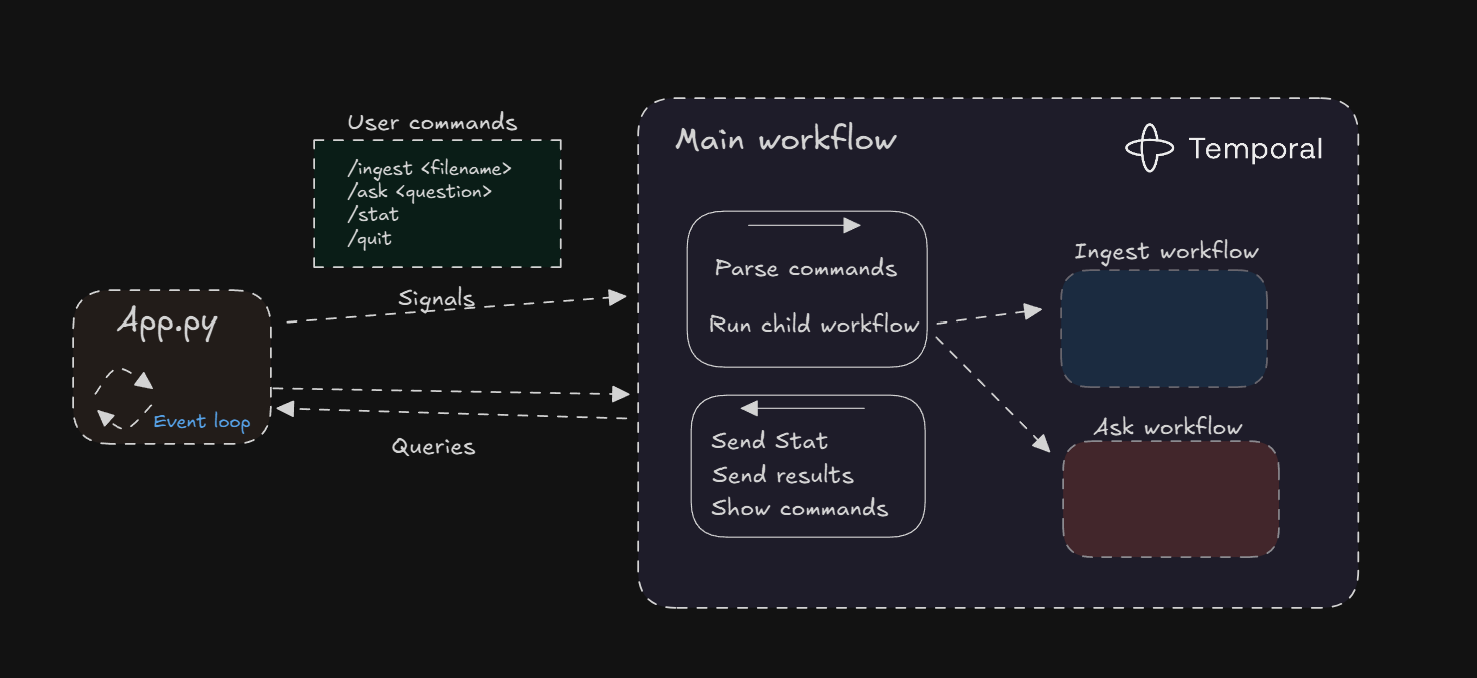
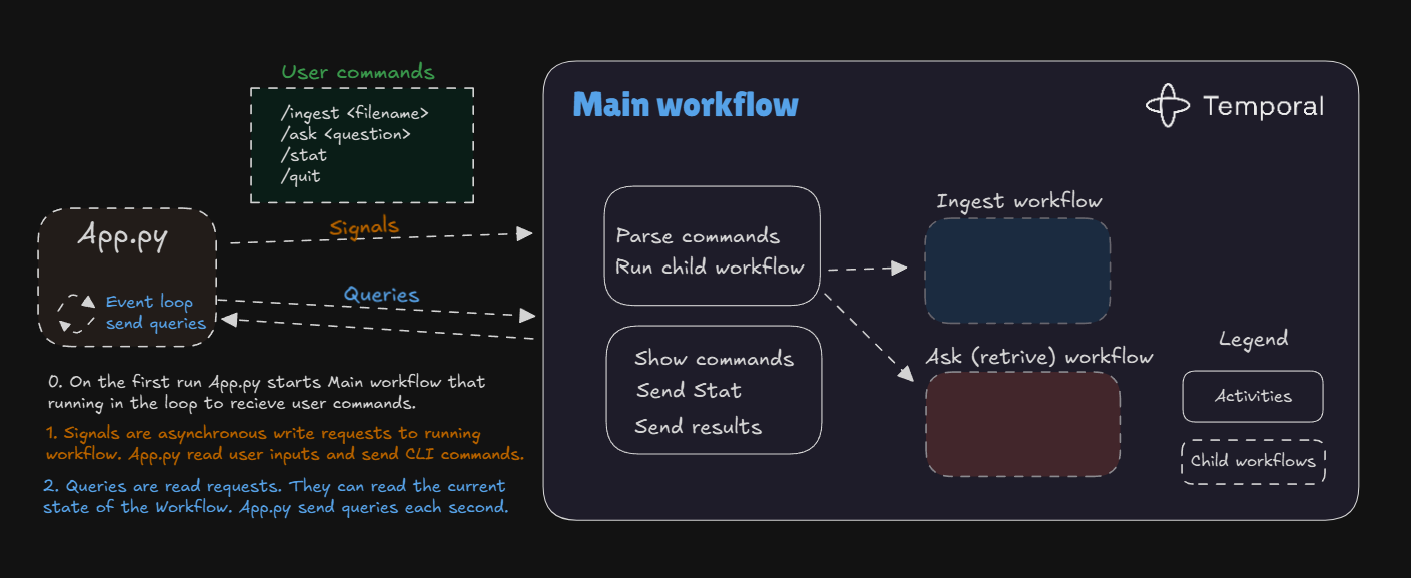
Update docs

diff --git a/README.md b/README.md
@@ -1,12 +1,12 @@
 # RAG0 - Durable document processing with Temporal
 
-This project aimed to demonstrate how to build durable document processing (RAG) workflows with Temporal using different tools for ingesting and retrieving:
-- for ingesting - Docling, LlamaIndex, and Ollama with predifined workflow steps.
-- for retrieving  - LangGraph Agentinc mode where AI agent can dicide which tools to use to answer question.
+This project aimed to demonstrate how to **build durable document processing (RAG) workflows with Temporal** using different tools for ingesting and retrieving:
+- ➡ for ingesting - Docling, LlamaIndex, and Ollama with predifined workflow steps.
+- ⬅ for retrieving  - LangGraph Agentinc mode where AI agent can dicide which tools to use to answer question.
 </br>
 
 > [!WARNING]
-> This document is not a "How to build a best in class RAG system". It is a "How to use Temporal for orchestrating document processing workflows to build Production Ready RAG system" guide.
+> This document **is not** a "How to build a best in class RAG system". It is a "How to use Temporal for orchestrating document processing workflows to build Production Ready RAG system" guide.
 
 ## Why I created this project?
 
@@ -80,11 +80,12 @@ flowchart LR
 
 ![Event Loop Diagram](docs/event-loop.png)
 
-[src/app.py](cci:7://file://wsl.localhost/Ubuntu-22.04/home/alex/projects/rag0/src/app.py:0:0-0:0) runs the interactive loop: it starts `MainWorkflow`, then keeps polling Temporal (`get_next_prompt`, `get_last_result`) so the CLI always shows the latest prompts and results. When the workflow publishes available commands, the CLI returns the user’s choice through the `MainWorkflow.submit_input` signal, and the workflow responds by launching the appropriate child workflow (e.g., ingestion, ask) or activity such as `stats` or `quit`. 
+[src/app.py](cci:7://file://wsl.localhost/Ubuntu-22.04/home/alex/projects/rag0/src/app.py:0:0-0:0) runs the interactive loop: it starts `MainWorkflow`, then keeps polling (using queries) Temporal (`get_next_prompt`, `get_last_result`) so the CLI always shows the latest prompts and results. When the workflow publishes available commands, the CLI returns the user’s choice through the `MainWorkflow.submit_input` signal, and the workflow responds by launching the appropriate child workflow (e.g., ingestion, ask) or activity such as `stats` or `quit`. 
 </br>
-*I have a plans to replace CLI tool with separated package using Golang and [BubbleTea TUI Framework](https://github.com/charmbracelet/bubbletea).*
+*I have a plans to replace CLI tool with separated package using Golang and [BubbleTea TUI Framework](https://github.com/charmbracelet/bubbletea) for better user experience and performance.*
 
 ## Ingestion Workflow
+Ingestion workflow recives path to the document as a payload and processes it through several steps:
 
 ![Ingestion Workflow Diagram](docs/ingestion-workflow.png)
 
@@ -95,7 +96,7 @@ flowchart LR
 5. **Index** – `update_vector_index_activity` leverages `src/ingestion/vector_store.py` to embed chunks, update the Chroma collection under `storage/index/`, and register document fingerprints for future refreshes.
 
 > [!TIP]
-> Since Temporal provide nice UI for debugging and observability you can open `http://localhost:8080` to see the Temporal UI.
+> Since Temporal provide nice [UI for debugging and observability](https://docs.temporal.io/evaluate/understanding-temporal#temporal-ui) you can open `http://localhost:8080` to see the progress of the workflow.
 
 Example of Ingestion Workflow in Temporal UI:
 ![Ingestion Temporal UI](docs/ingestion-temporal-ui.png)
@@ -204,3 +205,6 @@ Set `RAG0_ASK_REFLECTION_ENABLED=0` in `.env` (or pass `--ask-reflection-disable
 
 **Q:** Why do I need LangGraph (or LlamaIndex) if I can write logic with a Temporal workflow alone?  
 **A:** You certainly can build everything inside Temporal, but this project demonstrates how familiar tools like LangGraph and LlamaIndex can plug into Temporal to add agentic retrieval logic without rebuilding it from scratch.
+
+**Q:** Why polling temporal for updates?  
+**A:** This is a simple way to implement interactive loop. I can use meassage broker like NATS or Redis to implement more complex workflow. Maybe I will add this in the future.
